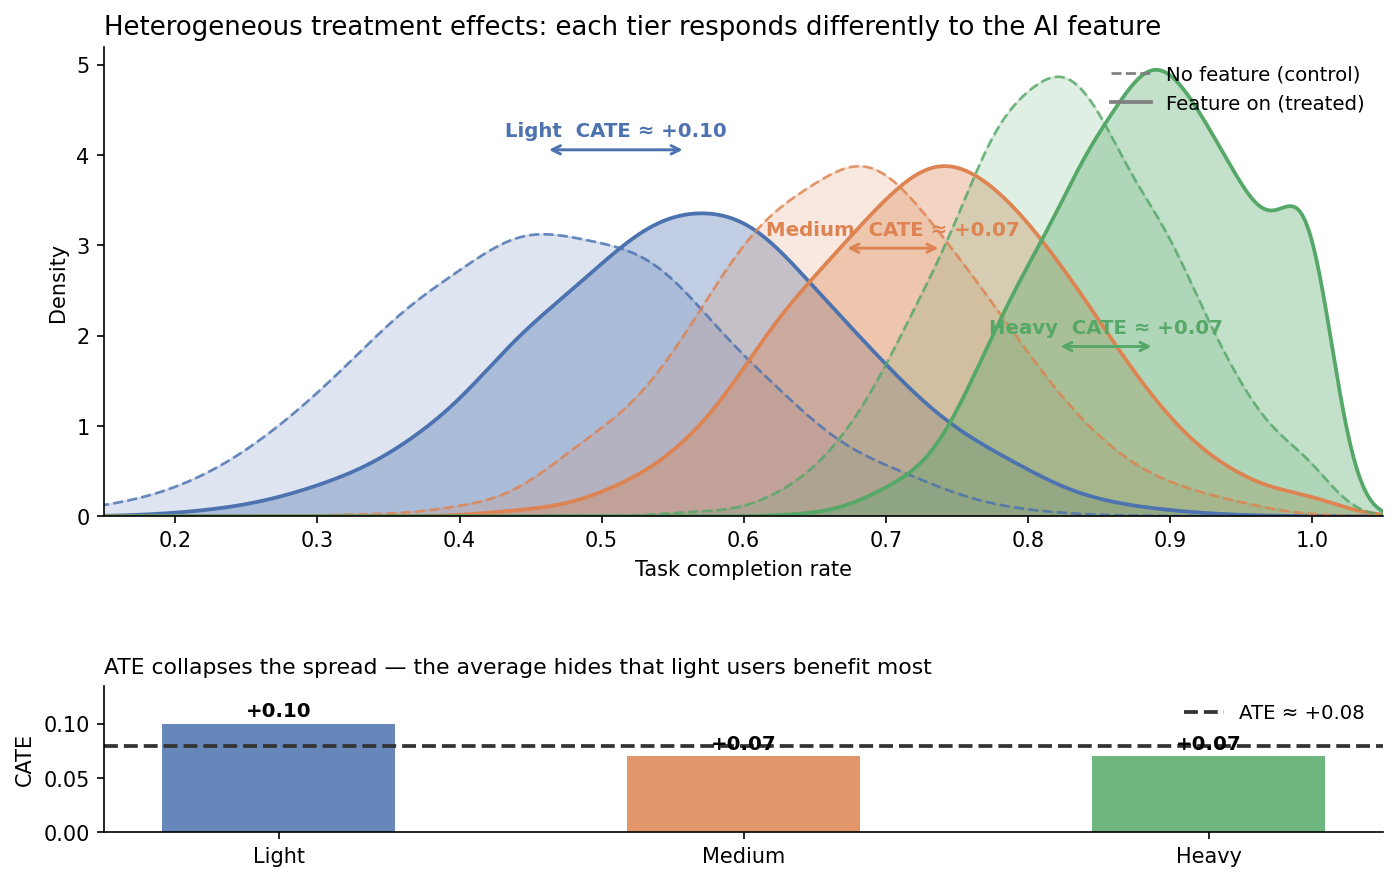
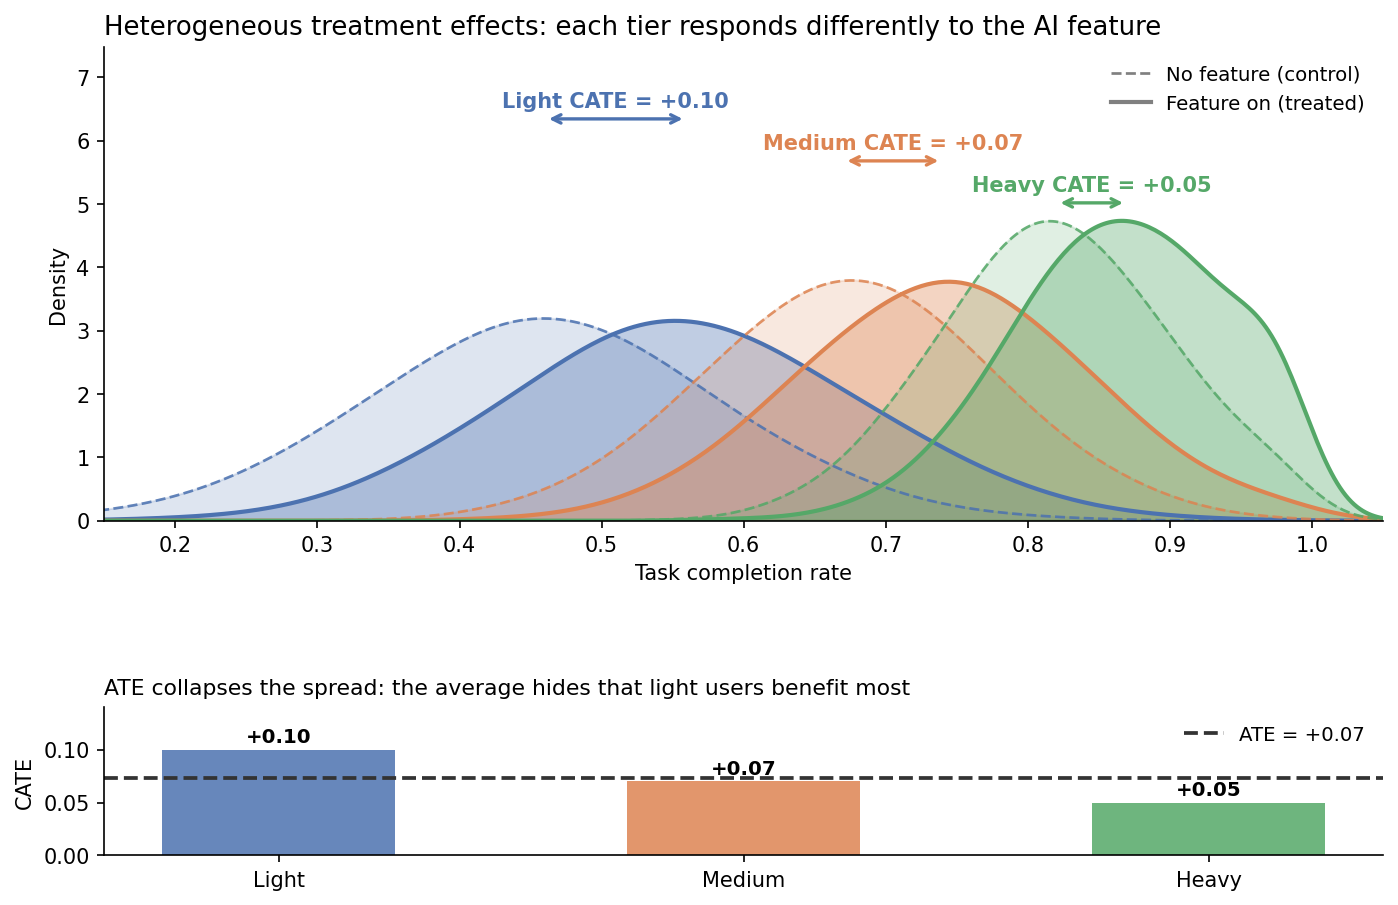
08_uplift_modeling: fix chart issues in Figure 1 and Figure 2
Figure 1 (conceptual):
- Remove em-dash from bottom panel subtitle
- Make Heavy CATE distinct: mu_t=0.87 gives CATE=0.05 (was 0.07, same as Medium)
- Stagger bracket annotations (Light 1.34x, Medium 1.20x, Heavy 1.06x) to eliminate overlap
- Increase bandwidth to 0.35 and n=8000 for smooth curves with no jagged tails

Figure 2 (data-driven):
- Remove em-dash from title (colon separator)
- Move legend inside upper-left of top panel to eliminate x-axis label overlap

diff --git a/08_uplift_modeling/generate_uplift_charts.py b/08_uplift_modeling/generate_uplift_charts.py
@@ -41,81 +41,73 @@ def save_figure(fig, name: str) -> None:
 
 
 def make_figure_1_conceptual() -> None:
-    """Conceptual figure: three tiers with different treatment effect sizes.
-
-    Shows control and treated outcome distributions for light, medium, and
-    heavy users. The gap between treated and control shrinks from light to
-    heavy, illustrating that the ATE (a single number) masks the spread.
-    Two-panel layout: top shows KDE curves; bottom shows ATE vs. per-tier
-    CATE bars as a reference.
-    """
+    """Conceptual figure: three tiers with different treatment effect sizes."""
     rng = np.random.default_rng(42)
 
-    # Schematic outcome distributions per tier (not from real data)
-    # Control: lower completion rates; Treated: higher, but varying gap
+    # Schematic CATEs: light=0.10, medium=0.07, heavy=0.05 (visually distinct)
     tier_params = {
         "light":  dict(mu_c=0.46, sigma_c=0.12, mu_t=0.56, sigma_t=0.12),
         "medium": dict(mu_c=0.67, sigma_c=0.10, mu_t=0.74, sigma_t=0.10),
-        "heavy":  dict(mu_c=0.82, sigma_c=0.08, mu_t=0.89, sigma_t=0.08),
+        "heavy":  dict(mu_c=0.82, sigma_c=0.08, mu_t=0.87, sigma_t=0.08),
     }
-    n_schematic = 3000
+    n_schematic = 8000
 
-    fig, (ax_top, ax_bot) = plt.subplots(
-        nrows=2, ncols=1, figsize=(11.0, 6.8),
-        gridspec_kw={"height_ratios": [3.2, 1.0], "hspace": 0.55},
-    )
+    grid = np.linspace(0.0, 1.2, 600)
 
-    grid = np.linspace(0.0, 1.2, 500)
+    # Pre-generate all samples once so max_y and curves use the same data
+    # Use wider bandwidth for smoother curves, no hard clipping to avoid bumps
+    tier_data = {}
     max_y = 0.0
     for tier in TIER_ORDER:
         p = tier_params[tier]
-        c_vals = np.clip(rng.normal(p["mu_c"], p["sigma_c"], n_schematic), 0, 1)
-        t_vals = np.clip(rng.normal(p["mu_t"], p["sigma_t"], n_schematic), 0, 1)
-        kde_c = gaussian_kde(c_vals, bw_method=0.25)(grid)
-        kde_t = gaussian_kde(t_vals, bw_method=0.25)(grid)
+        c_vals = np.clip(rng.normal(p["mu_c"], p["sigma_c"], n_schematic), 0.05, 0.98)
+        t_vals = np.clip(rng.normal(p["mu_t"], p["sigma_t"], n_schematic), 0.05, 0.98)
+        kde_c = gaussian_kde(c_vals, bw_method=0.35)(grid)
+        kde_t = gaussian_kde(t_vals, bw_method=0.35)(grid)
+        tier_data[tier] = (kde_c, kde_t)
         max_y = max(max_y, kde_c.max(), kde_t.max())
 
-    for i, tier in enumerate(TIER_ORDER):
-        p = tier_params[tier]
-        c_vals = np.clip(rng.normal(p["mu_c"], p["sigma_c"], n_schematic), 0, 1)
-        t_vals = np.clip(rng.normal(p["mu_t"], p["sigma_t"], n_schematic), 0, 1)
-        kde_c = gaussian_kde(c_vals, bw_method=0.25)(grid)
-        kde_t = gaussian_kde(t_vals, bw_method=0.25)(grid)
+    fig, (ax_top, ax_bot) = plt.subplots(
+        nrows=2, ncols=1, figsize=(11.0, 7.0),
+        gridspec_kw={"height_ratios": [3.2, 1.0], "hspace": 0.60},
+    )
 
+    for tier in TIER_ORDER:
+        kde_c, kde_t = tier_data[tier]
         color = TIER_COLORS[tier]
-        label_c = f"{tier.capitalize()} – no feature" if i == 0 else None
-        label_t = f"{tier.capitalize()} – feature on" if i == 0 else None
-
         ax_top.fill_between(grid, kde_c, alpha=0.18, color=color)
         ax_top.fill_between(grid, kde_t, alpha=0.35, color=color)
-        ax_top.plot(grid, kde_c, color=color, lw=1.3, ls="--", alpha=0.8)
-        ax_top.plot(grid, kde_t, color=color, lw=1.8, alpha=1.0)
+        ax_top.plot(grid, kde_c, color=color, lw=1.3, ls="--", alpha=0.85)
+        ax_top.plot(grid, kde_t, color=color, lw=2.0, alpha=1.0)
 
-        # Label the gap with a bracket between the two peak means
+    # CATE bracket annotations: staggered heights with generous spacing
+    # Light (leftmost pair) highest, Heavy (rightmost) lowest — avoids text collision
+    bracket_y_offsets = {"light": 1.34, "medium": 1.20, "heavy": 1.06}
+    for tier in TIER_ORDER:
+        p = tier_params[tier]
+        color = TIER_COLORS[tier]
+        cate_val = p["mu_t"] - p["mu_c"]
+        by = max_y * bracket_y_offsets[tier]
         ax_top.annotate(
             "",
-            xy=(p["mu_t"], max_y * (0.82 - 0.22 * i)),
-            xytext=(p["mu_c"], max_y * (0.82 - 0.22 * i)),
-            arrowprops=dict(arrowstyle="<->", color=color, lw=1.4),
+            xy=(p["mu_t"], by),
+            xytext=(p["mu_c"], by),
+            arrowprops=dict(arrowstyle="<->", color=color, lw=1.6),
         )
-        cate_label = p["mu_t"] - p["mu_c"]
         ax_top.text(
-            (p["mu_c"] + p["mu_t"]) / 2,
-            max_y * (0.84 - 0.22 * i),
-            f"{tier.capitalize()}  CATE ≈ {cate_label:+.2f}",
-            ha="center", va="bottom", fontsize=9.5, color=color,
-            fontweight="bold",
+            (p["mu_c"] + p["mu_t"]) / 2, by + max_y * 0.025,
+            f"{tier.capitalize()} CATE = {cate_val:+.2f}",
+            ha="center", va="bottom", fontsize=10, color=color, fontweight="bold",
         )
 
-    # Legend via proxy artists
     from matplotlib.lines import Line2D
     legend_els = [
         Line2D([0], [0], color="gray", lw=1.3, ls="--", label="No feature (control)"),
-        Line2D([0], [0], color="gray", lw=1.8, label="Feature on (treated)"),
+        Line2D([0], [0], color="gray", lw=2.0, label="Feature on (treated)"),
     ]
     ax_top.legend(handles=legend_els, frameon=False, loc="upper right", fontsize=9.5)
     ax_top.set_xlim(0.15, 1.05)
-    ax_top.set_ylim(0, max_y * 1.05)
+    ax_top.set_ylim(0, max_y * 1.58)
     ax_top.set_xlabel("Task completion rate")
     ax_top.set_ylabel("Density")
     ax_top.set_title(
@@ -125,8 +117,8 @@ def make_figure_1_conceptual() -> None:
     ax_top.spines["top"].set_visible(False)
     ax_top.spines["right"].set_visible(False)
 
-    # Bottom: ATE vs. per-tier CATE bars
-    tier_cates = [p["mu_t"] - p["mu_c"] for p in tier_params.values()]
+    # Bottom: per-tier CATE bars vs. ATE
+    tier_cates = [tier_params[t]["mu_t"] - tier_params[t]["mu_c"] for t in TIER_ORDER]
     ate_approx = np.mean(tier_cates)
     x_pos = np.arange(len(TIER_ORDER))
     bars = ax_bot.bar(
@@ -135,20 +127,20 @@ def make_figure_1_conceptual() -> None:
         width=0.5, alpha=0.85,
     )
     ax_bot.axhline(ate_approx, color="#333333", lw=1.8, ls="--",
-                   label=f"ATE ≈ {ate_approx:+.2f}")
+                   label=f"ATE = {ate_approx:+.2f}")
     for bar, val in zip(bars, tier_cates):
         ax_bot.text(bar.get_x() + bar.get_width() / 2,
                     val + 0.003, f"{val:+.2f}",
                     ha="center", va="bottom", fontsize=9.5, fontweight="bold")
-    ax_bot.legend(frameon=False, fontsize=9.5)
+    ax_bot.legend(frameon=False, fontsize=9.5, loc="upper right")
     ax_bot.set_xticks(x_pos)
     ax_bot.set_xticklabels([t.capitalize() for t in TIER_ORDER])
     ax_bot.set_ylabel("CATE")
     ax_bot.set_title(
-        "ATE collapses the spread — the average hides that light users benefit most",
+        "ATE collapses the spread: the average hides that light users benefit most",
         fontsize=10.5, loc="left",
     )
-    ax_bot.set_ylim(0, max(tier_cates) * 1.35)
+    ax_bot.set_ylim(0, max(tier_cates) * 1.40)
     ax_bot.spines["top"].set_visible(False)
     ax_bot.spines["right"].set_visible(False)
 
@@ -226,11 +218,12 @@ def make_figure_2_data_driven() -> None:
     ax_top.set_xlabel("Predicted CATE (T-learner)")
     ax_top.set_ylabel("Density")
     ax_top.set_title(
-        "Predicted CATE distributions by engagement tier — 50,000-user synthetic dataset",
+        "Predicted CATE distributions by engagement tier: 50,000-user synthetic dataset",
         fontsize=12.5, loc="left",
     )
-    ax_top.legend(frameon=False, loc="upper center",
-                  bbox_to_anchor=(0.5, -0.08), ncol=2, fontsize=9.5)
+    # Legend in upper-left dead zone (all density curves are at x > 0.05)
+    ax_top.legend(frameon=True, loc="upper left", fontsize=9.5,
+                  framealpha=0.85, edgecolor="#cccccc")
     ax_top.spines["top"].set_visible(False)
     ax_top.spines["right"].set_visible(False)
 
